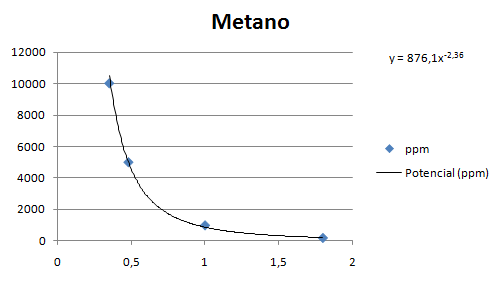
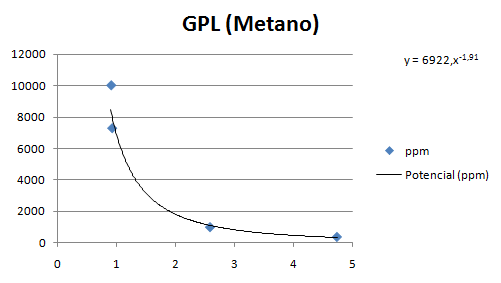
Metano fórmula reajustada

diff --git a/calculos/CALCULOS.md b/calculos/CALCULOS.md
@@ -76,21 +76,21 @@ double glp = 8555*pow(mq2_resistencia/5463, -1,74);
 
 Rs/Ro | ppm
 ------------ | -------------
-0.35 | 10000
-0.48 | 5000
-1 | 1000
-1.8 | 200
+0,898 | 10000
+0,915 | 7279,069
+2,583 | 1000
+4,75 | 379,069
 
 
 **Ecuación potencial**
 
 - Expresión:
 ```
-y = 876,1x-2,36
+y = 6922,x-1,91
 ```
 - Código:
 ```arduino
-double metano = 876,1*pow(mq4_resistencia/5463, -2,36);
+double metano = 6922*pow(mq4_resistencia/5463, -1,91);
 ```
 
 ### Propano
